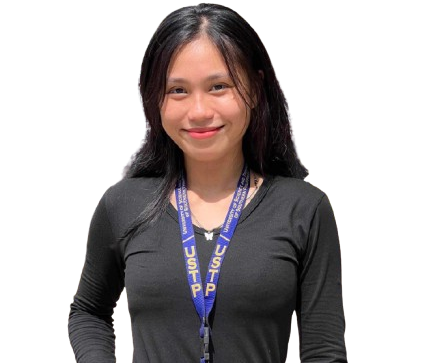
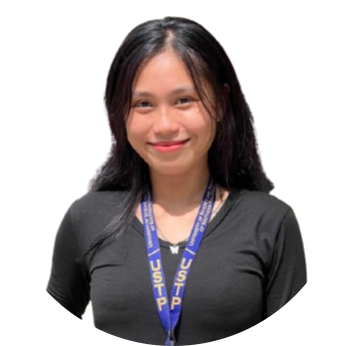
SCRUM MASTER profile image kulang

diff --git a/src/components/OurTeam.js b/src/components/OurTeam.js
@@ -2,14 +2,14 @@
 import React from "react";
 import { Link } from "react-router-dom"; // Add this line
 import Footer from "./footer"; // Adjust the path as necessary
-import teamMember1 from "./img/Profiles/Javy-Rodillon.png";
-import teamMember2 from "./img/Profiles/Villarta.png";
+import teamMember1 from "./img/Profiles/Villarta.png";
+import teamMember2 from "./img/Profiles/Javy-Rodillon.png";
 import teamMember3 from "./img/Profiles/JAMAICA PATAC.png";
-import teamMember4 from "./img/Profiles/devpic.jpg";
-import teamMember5 from "./img/Profiles/SHUN CYREL CASERES.png";
-import teamMember6 from "./img/Profiles/devpic.jpg";
-import teamMember7 from "./img/Profiles/Gutierrez_Faith.png";
-import teamMember8 from "./img/Profiles/ABBA JOY TABACON TAUTO-AN.png";
+import teamMember4 from "./img/Profiles/Jeason_neil_Paigna-removebg-preview.png";
+import teamMember5 from "./img/Profiles/Caseres__Shun_Cyrel_-removebg-preview.png";
+import teamMember6 from "./img/Profiles/CHRISTINE_SEVILLA.png";
+import teamMember7 from "./img/Profiles//Gutierrez_Faith-removebg-preview.png";
+import teamMember8 from "./img/Profiles/JAYRILLE TUBERA.png";
 import teamMember9 from "./img/Profiles/devpic.jpg";
 // Import additional team members as needed
 
@@ -121,8 +121,8 @@ const TeamPage = () => {
                     alt="Team Member 1"
                   />
                 </div>
-                <h5 className="mb-0">JAVY MALISUD RODILLON</h5>
-                <small>Designation</small>
+                <h5 className="mb-0">ARIEL JAY LYSTER VILLARTA</h5>
+                <small>PROJECT MANAGER</small>
                 <div className="d-flex justify-content-center mt-3">
                   <a className="btn btn-square btn-primary mx-1" href="#">
                     <i className="fab fa-facebook-f"></i>
@@ -149,8 +149,8 @@ const TeamPage = () => {
                     alt="Team Member 2"
                   />
                 </div>
-                <h5 className="mb-0">ARIEL JAY LYSTER VILLARTA</h5>
-                <small>Designation</small>
+                <h5 className="mb-0">JAVY MALISUD RODILLON</h5>
+                <small>FULL-STACK DEV</small>
                 <div className="d-flex justify-content-center mt-3">
                   <a className="btn btn-square btn-primary mx-1" href="#">
                     <i className="fab fa-facebook-f"></i>
@@ -178,7 +178,7 @@ const TeamPage = () => {
                   />
                 </div>
                 <h5 className="mb-0">JAMAICA PATAC</h5>
-                <small>Designation</small>
+                <small>FRONTEND DEV</small>
                 <div className="d-flex justify-content-center mt-3">
                   <a className="btn btn-square btn-primary mx-1" href="#">
                     <i className="fab fa-facebook-f"></i>
@@ -195,18 +195,18 @@ const TeamPage = () => {
             {/* Team Member 4 */}
             <div
               className="col-lg-3 col-md-6 wow fadeInUp"
-              data-wow-delay="0.7s"
+              data-wow-delay="0.1s"
             >
               <div className="team-item text-center rounded overflow-hidden">
                 <div className="rounded-circle overflow-hidden m-4">
                   <img
                     className="img-fluid"
                     src={teamMember4}
-                    alt="Team Member 4"
+                    alt="Team Member 1"
                   />
                 </div>
                 <h5 className="mb-0">JEASON NEIL PAIGNA</h5>
-                <small>Designation</small>
+                <small>FRONTEND DEV</small>
                 <div className="d-flex justify-content-center mt-3">
                   <a className="btn btn-square btn-primary mx-1" href="#">
                     <i className="fab fa-facebook-f"></i>
@@ -234,7 +234,7 @@ const TeamPage = () => {
                   />
                 </div>
                 <h5 className="mb-0">SHUN CYREL CASERES</h5>
-                <small>Designation</small>
+                <small>FRONTEND DEV</small>
                 <div className="d-flex justify-content-center mt-3">
                   <a className="btn btn-square btn-primary mx-1" href="#">
                     <i className="fab fa-facebook-f"></i>
@@ -262,7 +262,7 @@ const TeamPage = () => {
                   />
                 </div>
                 <h5 className="mb-0">CHRISTINE SEVILLA</h5>
-                <small>Designation</small>
+                <small>UI/UX</small>
                 <div className="d-flex justify-content-center mt-3">
                   <a className="btn btn-square btn-primary mx-1" href="#">
                     <i className="fab fa-facebook-f"></i>
@@ -290,7 +290,7 @@ const TeamPage = () => {
                   />
                 </div>
                 <h5 className="mb-0">FAITH GRACE GUTIERREZ</h5>
-                <small>Designation</small>
+                <small>UI/UX</small>
                 <div className="d-flex justify-content-center mt-3">
                   <a className="btn btn-square btn-primary mx-1" href="#">
                     <i className="fab fa-facebook-f"></i>
@@ -318,7 +318,7 @@ const TeamPage = () => {
                   />
                 </div>
                 <h5 className="mb-0">JAYRILLE TUBERA</h5>
-                <small>Designation</small>
+                <small>UI/UX</small>
                 <div className="d-flex justify-content-center mt-3">
                   <a className="btn btn-square btn-primary mx-1" href="#">
                     <i className="fab fa-facebook-f"></i>
@@ -346,7 +346,7 @@ const TeamPage = () => {
                   />
                 </div>
                 <h5 className="mb-0">ABBA JOY TAUTO-AN</h5>
-                <small>Designation</small>
+                <small>SCRUM MASTER</small>
                 <div className="d-flex justify-content-center mt-3">
                   <a className="btn btn-square btn-primary mx-1" href="#">
                     <i className="fab fa-facebook-f"></i>
